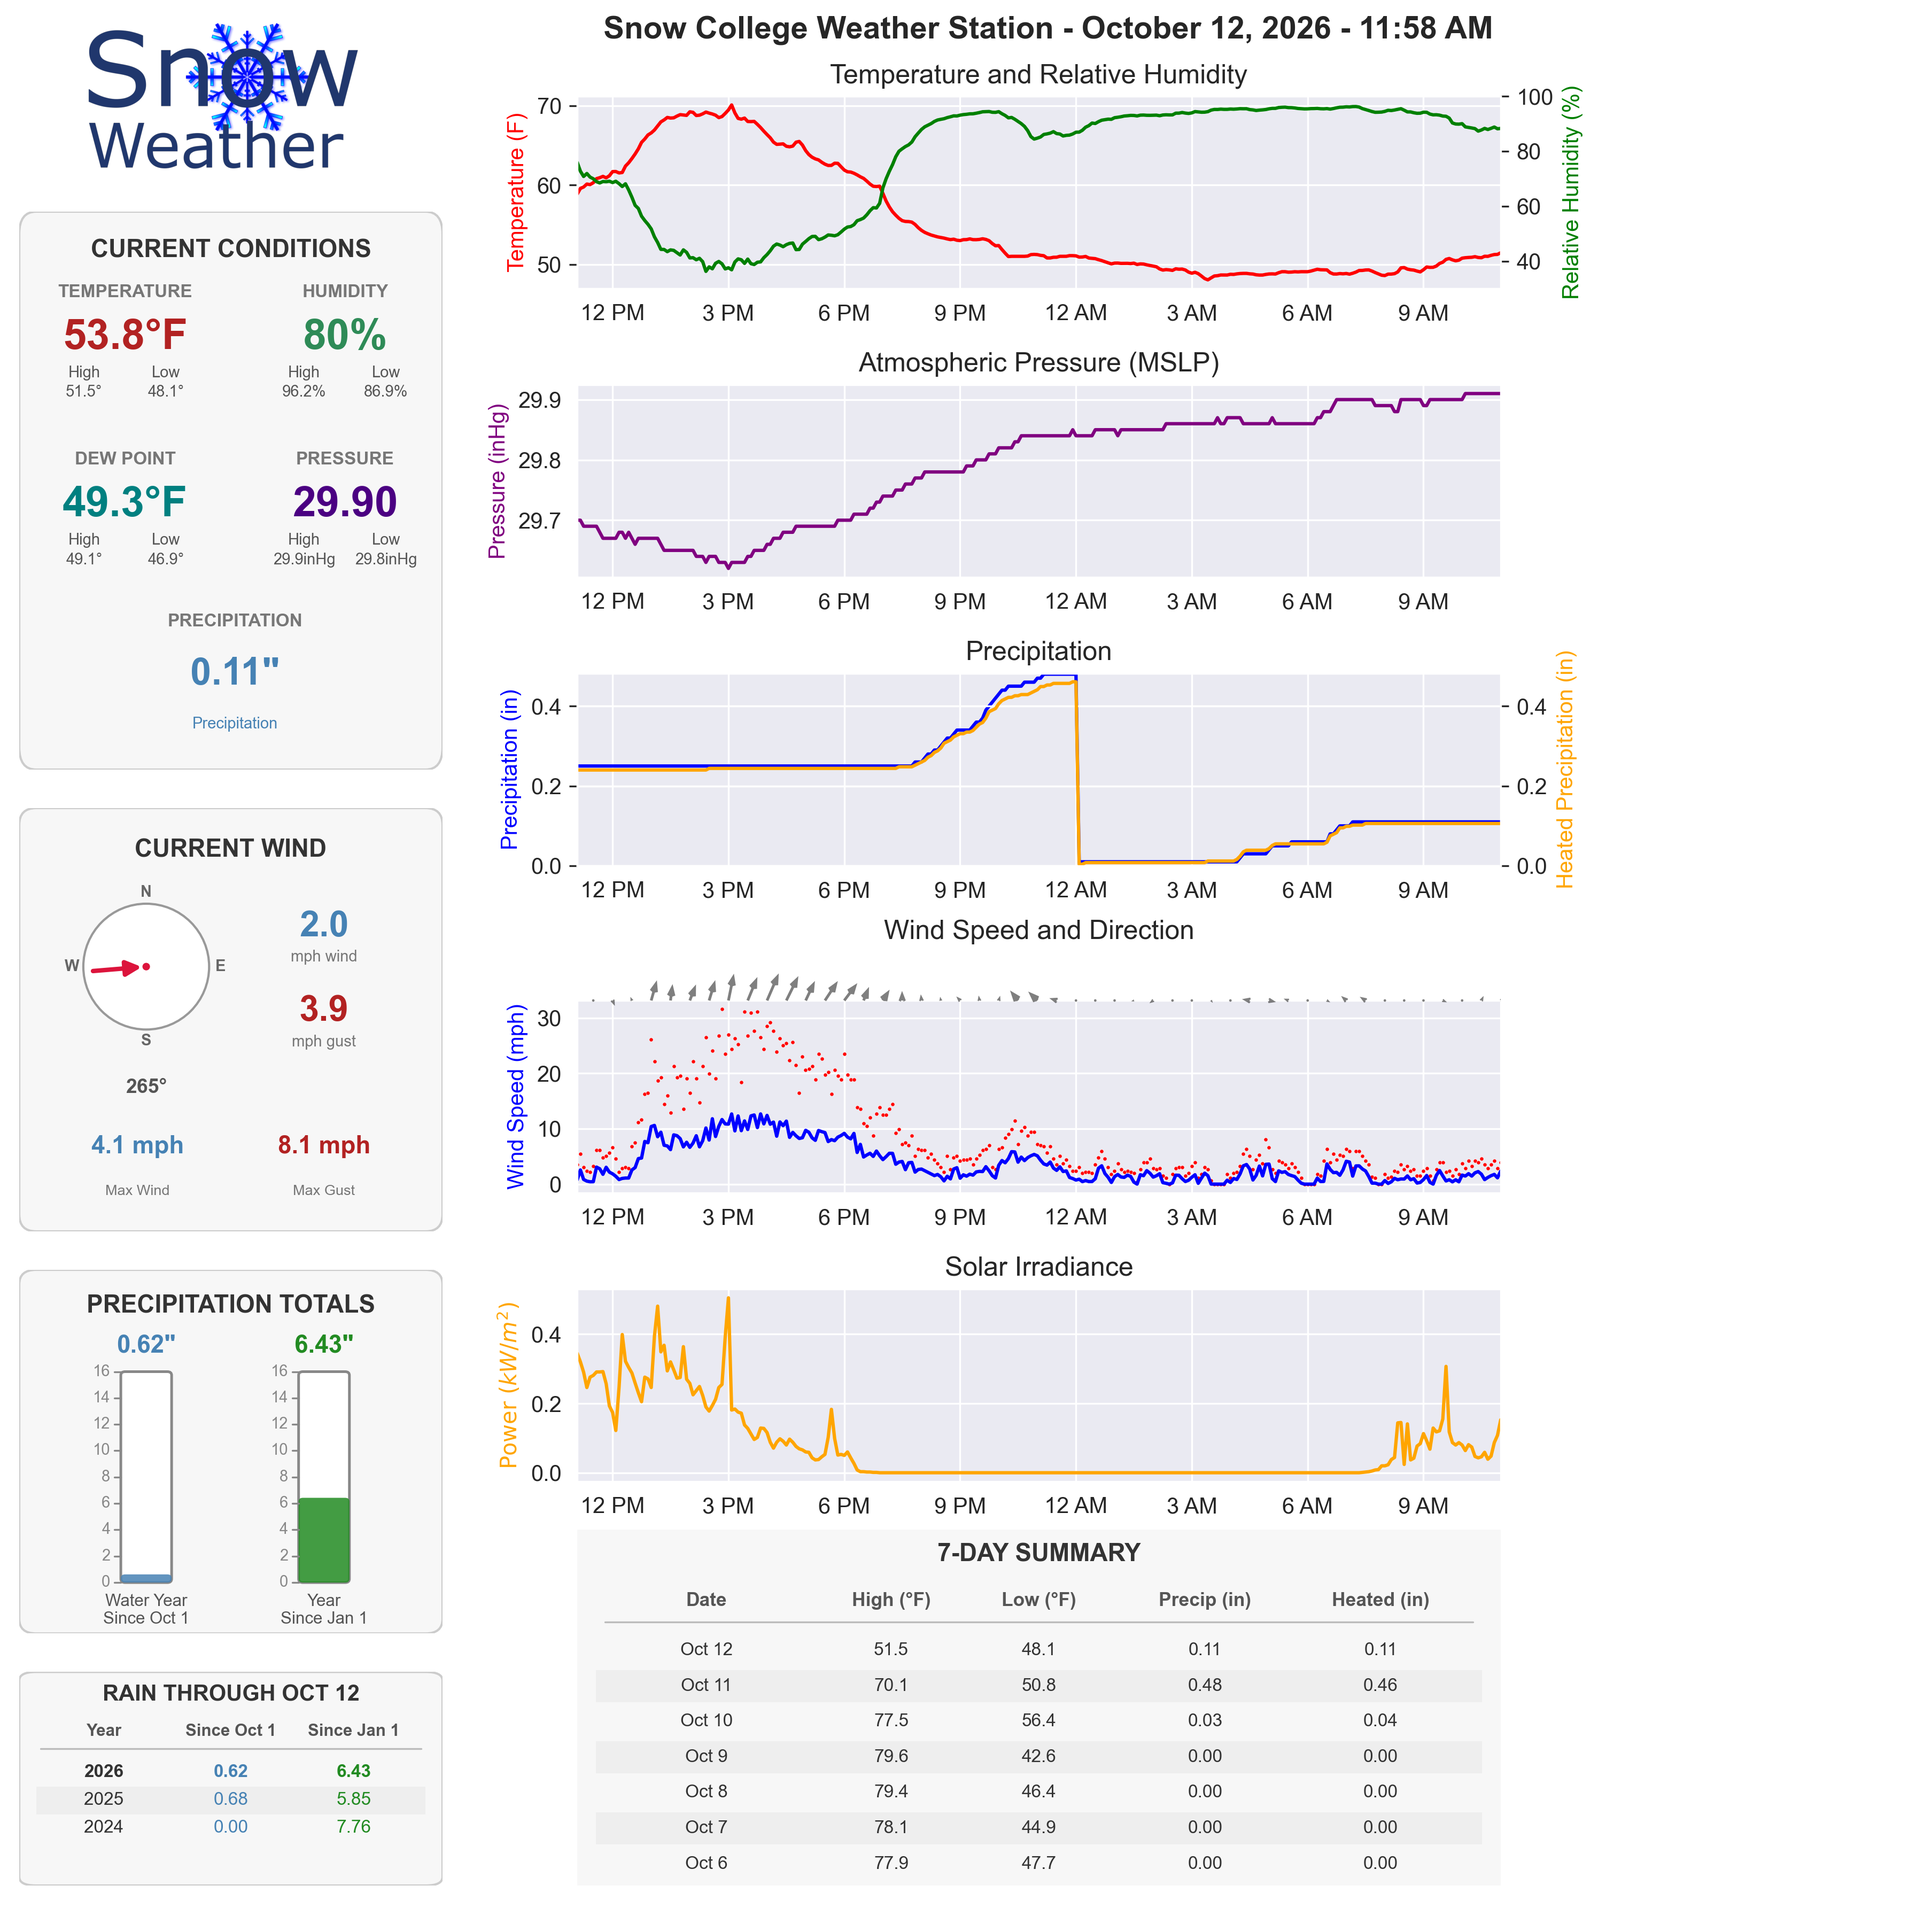
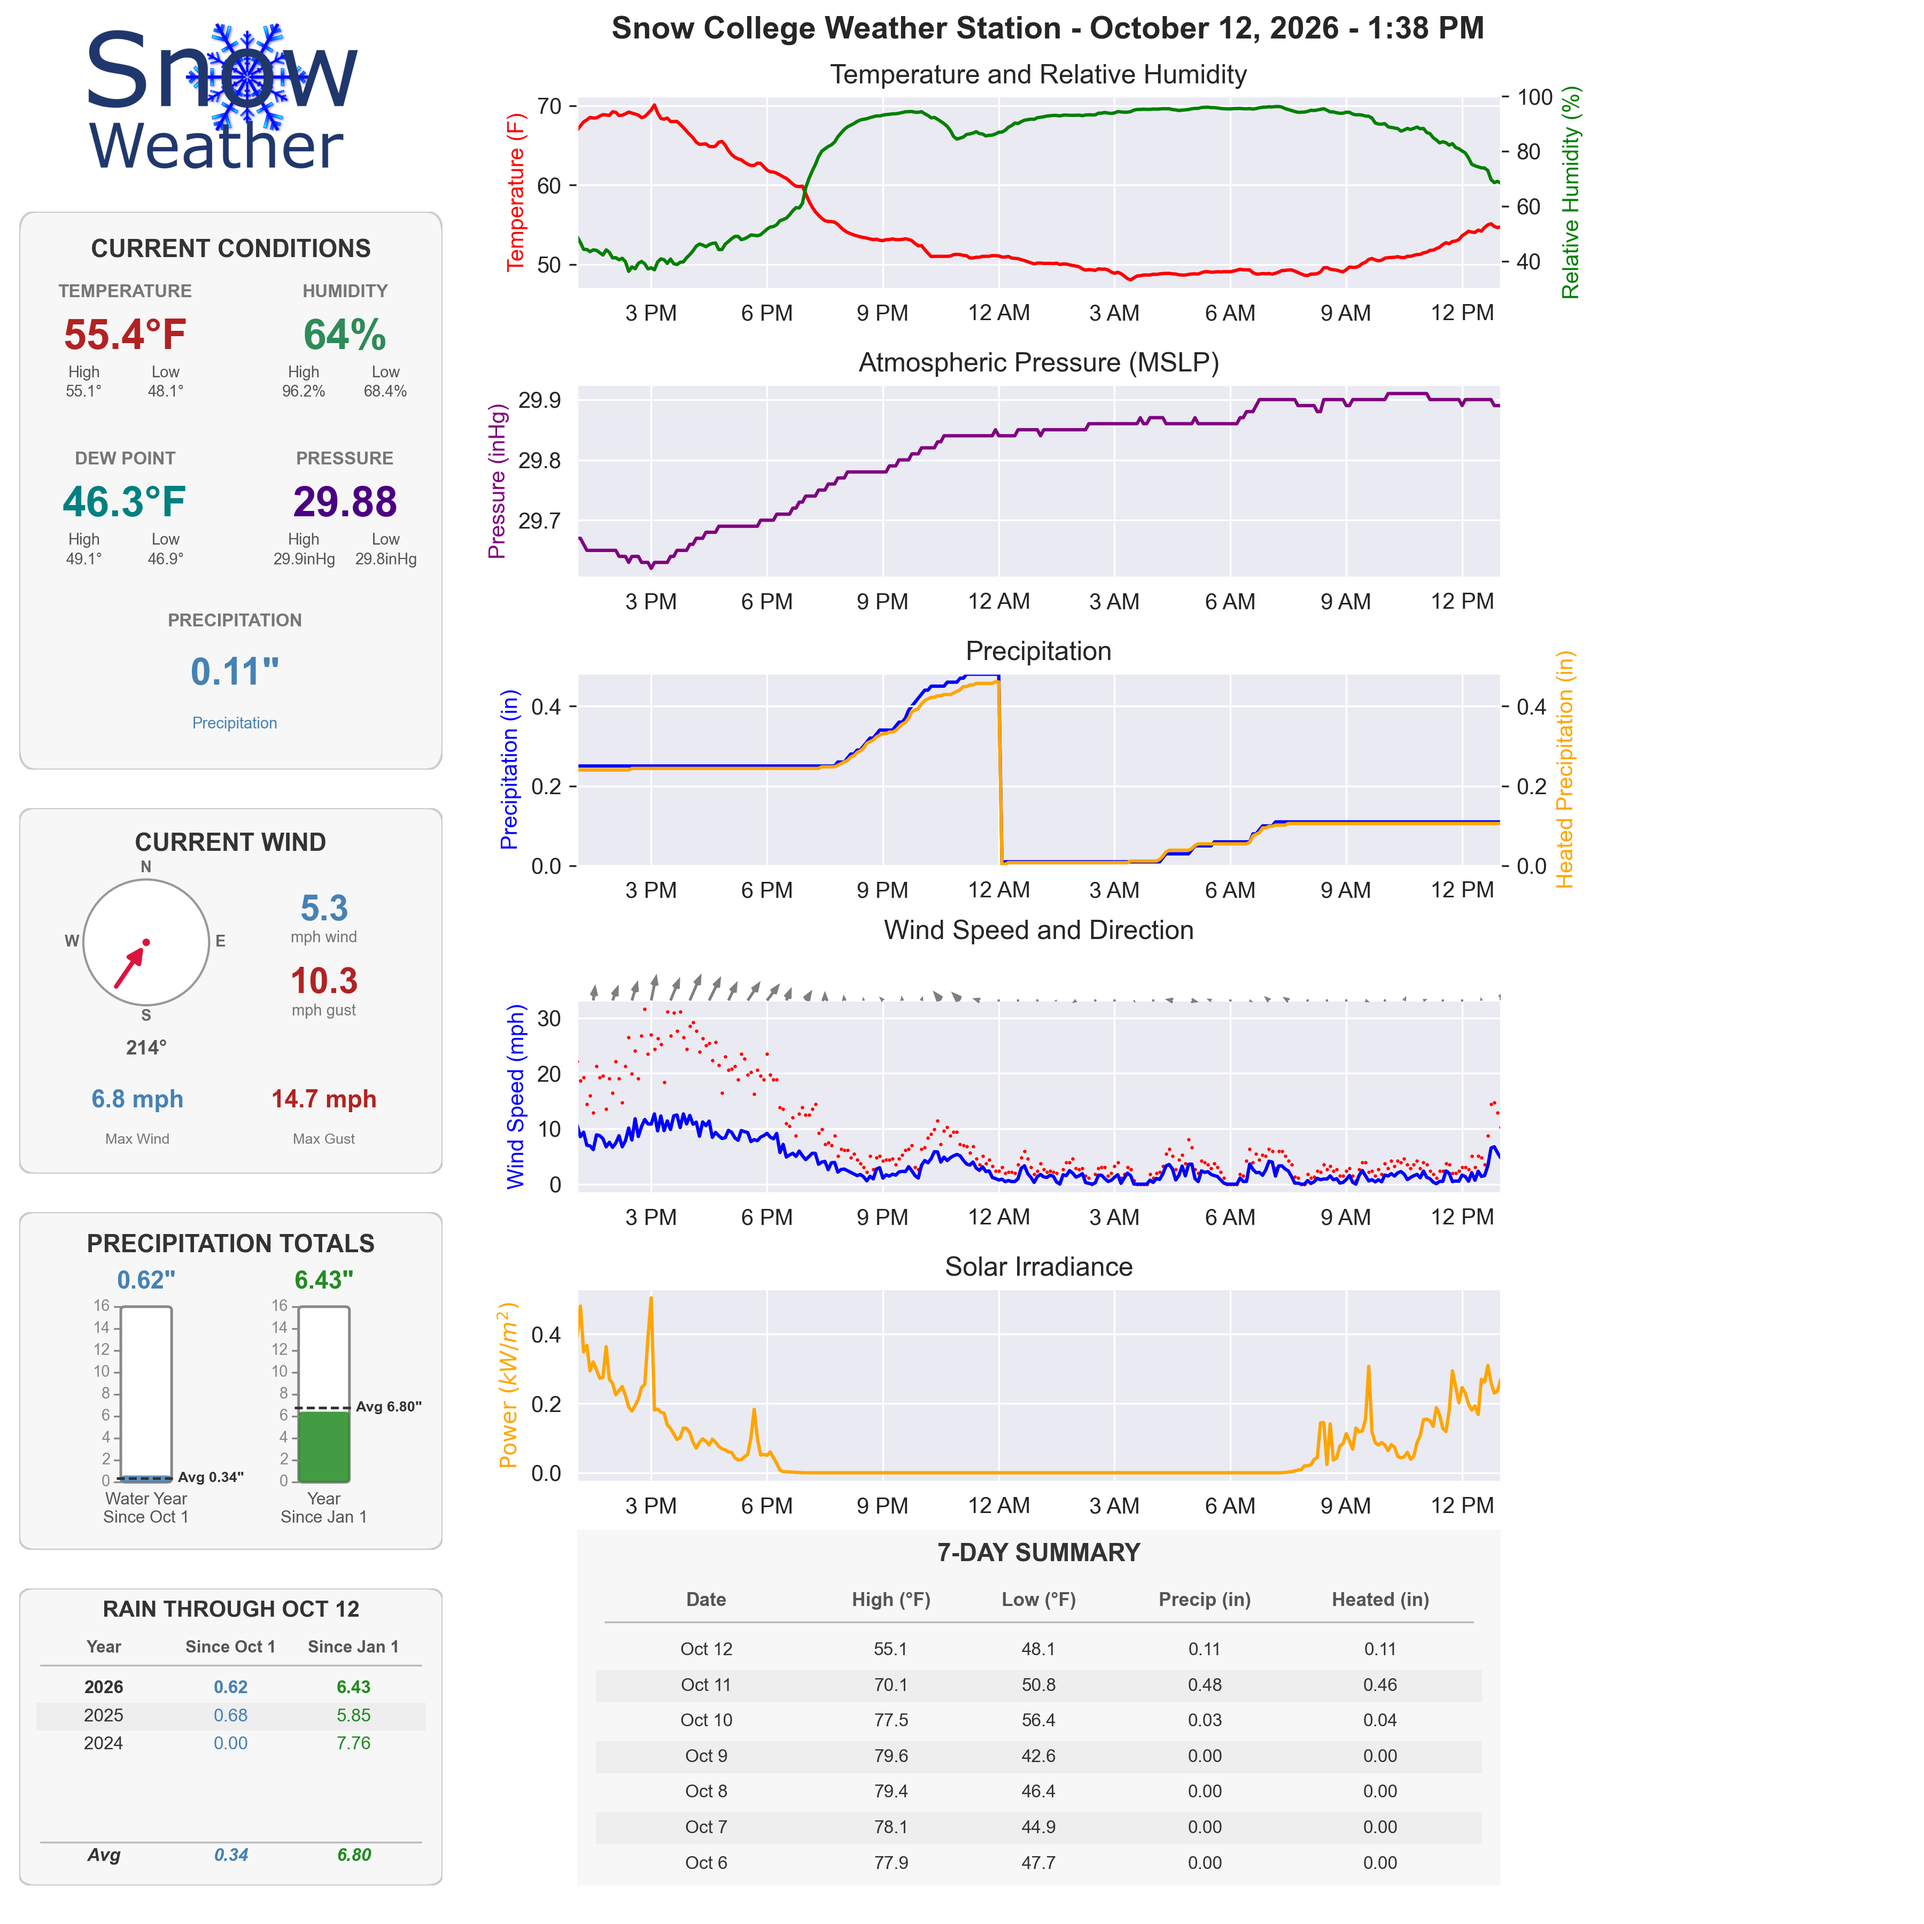
Added average lines to precip graphs

diff --git a/WxImage_261012.py b/WxImage_261012.py
@@ -46,7 +46,7 @@ GRAPH_X, GRAPH_W = 0.30, 0.48
 
 panel_x, panel_w = 0.01, 0.22
 panel_y, panel_h = 0.60, 0.29
-panel2_h = 0.22
+panel2_h = 0.19   # Current Wind panel height (was 0.22; space given to Precipitation Totals)
 
 row1_center = 0.58
 row2_center = 0.15
@@ -173,7 +173,8 @@ calendar_year_precip = _daily_last_rain[_daily_last_rain.index >= calendar_year_
 ###   Year-by-year rain to date (for the table under the Rain Gauge Panel)   ###
 # For each year on record, total rain from Oct 1 -> today's month/day and
 # from Jan 1 -> today's month/day, using the same daily totals as the gauges.
-RAIN_TABLE_MAX_YEARS = 6   # most recent years shown (keeps the table from crowding the gauges)
+RAIN_TABLE_MAX_YEARS = 6      # table is sized for this many years (+ an average row)
+RAIN_TABLE_FIRST_YEAR = 2024  # earliest year shown (5-min rain data starts in 2024)
 
 def _same_day_in_year(year, ref):
     """ref's month/day in another year (Feb 29 -> Feb 28 in non-leap years)."""
@@ -189,7 +190,8 @@ def _rain_between(start, end):
 
 rain_table_rows = []
 if not _daily_last_rain.empty:
-    for yr in range(_today_norm.year, _daily_last_rain.index.min().year - 1, -1):
+    _first_yr = max(RAIN_TABLE_FIRST_YEAR, _daily_last_rain.index.min().year)
+    for yr in range(_today_norm.year, _first_yr - 1, -1):
         end = _same_day_in_year(yr, _today_norm)
         oct1 = pd.Timestamp(year=yr, month=10, day=1)
         wy_start = oct1 if end >= oct1 else pd.Timestamp(year=yr - 1, month=10, day=1)
@@ -199,6 +201,16 @@ if not _daily_last_rain.empty:
             continue  # no complete period for this year
         rain_table_rows.append((yr, wy_total, cy_total))
 rain_table_rows = rain_table_rows[:RAIN_TABLE_MAX_YEARS]
+
+# Average rain to date for past years in the table (current year excluded).
+# Used for the table's bottom row and the "Avg" marks on the rain gauges.
+def _nanmean_or_nan(vals):
+    vals = [v for v in vals if not np.isnan(v)]
+    return float(np.mean(vals)) if vals else np.nan
+
+_past_rows = [r for r in rain_table_rows if r[0] != _today_norm.year]
+rain_avg_wy = _nanmean_or_nan([r[1] for r in _past_rows])  # since Oct 1
+rain_avg_cy = _nanmean_or_nan([r[2] for r in _past_rows])  # since Jan 1
 
 
 ###   Temperature and Relative Humidity   ###
@@ -596,7 +608,7 @@ ax_windpanel.text(0.72, row2_center - 0.04, "Max Gust",
 rt_title_h = 0.045   # title + column-header band (figure fraction)
 rt_row_h = 0.0145    # height of each year row (figure fraction)
 rt_pad = 0.008       # bottom padding
-rt_h = rt_title_h + rt_row_h * (max(1, len(rain_table_rows)) + 1) + rt_pad  # +1 = average row
+rt_h = rt_title_h + rt_row_h * (RAIN_TABLE_MAX_YEARS + 1) + rt_pad  # fixed size: 6 years + average row
 rt_y = table_bottom  # same bottom edge as the 7-day summary table
 
 panel3_y = rt_y + rt_h + 0.02  # small gap above the rain table
@@ -619,7 +631,7 @@ ax_rainpanel.text(0.5, 0.90, "PRECIPITATION TOTALS", ha='center', va='center',
                    transform=ax_rainpanel.transAxes)
  
 def rain_gauge(ax, x_center, y_bottom, y_top, width, value, max_value,
-               color, label):
+               color, label, avg=None):
     """Draw one vertical rain-gauge bar (fraction-filled tube) in axes coords."""
     # Outer tube
     ax.add_patch(FancyBboxPatch(
@@ -645,6 +657,15 @@ def rain_gauge(ax, x_center, y_bottom, y_top, width, value, max_value,
                 color='#888888', linewidth=0.8, transform=ax.transAxes, zorder=3)
         ax.text(x_center - width/2 - 0.025, ty, f"{tick}", ha='right', va='center',
                 fontsize=7.0, color='#888888', transform=ax.transAxes)
+    # Average-to-date marker: dashed line across the tube, labeled on the right
+    if avg is not None and not np.isnan(avg):
+        ay = y_bottom + (y_top - y_bottom) * max(0.0, min(1.0, avg / max_value))
+        ax.plot([x_center - width/2 - 0.01, x_center + width/2 + 0.01], [ay, ay],
+                color='#333333', linewidth=1.2, linestyle=(0, (3, 1.5)),
+                transform=ax.transAxes, zorder=4)
+        ax.text(x_center + width/2 + 0.015, ay, f"Avg {avg:0.2f}\"",
+                ha='left', va='center', fontsize=6.5, fontweight='bold',
+                color='#333333', transform=ax.transAxes, zorder=4)
     # Value, above the tube
     ax.text(x_center, y_top + 0.04, f"{value:0.2f}\"", ha='center', va='bottom',
             fontsize=11, fontweight='bold', color=color, transform=ax.transAxes)
@@ -652,13 +673,15 @@ def rain_gauge(ax, x_center, y_bottom, y_top, width, value, max_value,
     ax.text(x_center, y_bottom - 0.03, label, ha='center', va='top',
             fontsize=7.5, color='#555555', transform=ax.transAxes)
  
-gauge_y_bottom, gauge_y_top = 0.14, 0.72
+gauge_y_bottom, gauge_y_top = 0.20, 0.72  # bottom raised from 0.14 so the captions fit inside the panel
 gauge_width = 0.12
  
 rain_gauge(ax_rainpanel, 0.30, gauge_y_bottom, gauge_y_top, gauge_width,
-           water_year_precip, 16.0, 'steelblue', 'Water Year\nSince Oct 1')
+           water_year_precip, 16.0, 'steelblue', 'Water Year\nSince Oct 1',
+           avg=rain_avg_wy)
 rain_gauge(ax_rainpanel, 0.72, gauge_y_bottom, gauge_y_top, gauge_width,
-           calendar_year_precip, 16.0, 'forestgreen', 'Year\nSince Jan 1')
+           calendar_year_precip, 16.0, 'forestgreen', 'Year\nSince Jan 1',
+           avg=rain_avg_cy)
 
 
 ###   Rain-to-Date by Year Table (below the Rain Gauge Panel)   ###
@@ -716,6 +739,18 @@ for i, (yr, wy_total, cy_total) in enumerate(rain_table_rows):
         ax_raintable.text(cx, row_y, v, ha='center', va='center',
                           fontsize=8, fontweight=weight, color=c,
                           transform=ax_raintable.transAxes)
+
+# Bottom row (fixed slot below the 6 year rows): average of past years
+avg_row_y = _rt_y(rt_title_h + rt_row_h * (RAIN_TABLE_MAX_YEARS + 0.5))
+avg_line_y = avg_row_y + (rt_row_h / 2) / rt_h
+ax_raintable.plot([0.05, 0.95], [avg_line_y, avg_line_y], color='#bbbbbb',
+                  linewidth=0.8, transform=ax_raintable.transAxes)
+for cx, v, c in zip(rt_col_x,
+                    ['Avg', _fmt_rain(rain_avg_wy), _fmt_rain(rain_avg_cy)],
+                    ['#333333', 'steelblue', 'forestgreen']):
+    ax_raintable.text(cx, avg_row_y, v, ha='center', va='center',
+                      fontsize=8, fontweight='bold', fontstyle='italic', color=c,
+                      transform=ax_raintable.transAxes)
 
 
 
